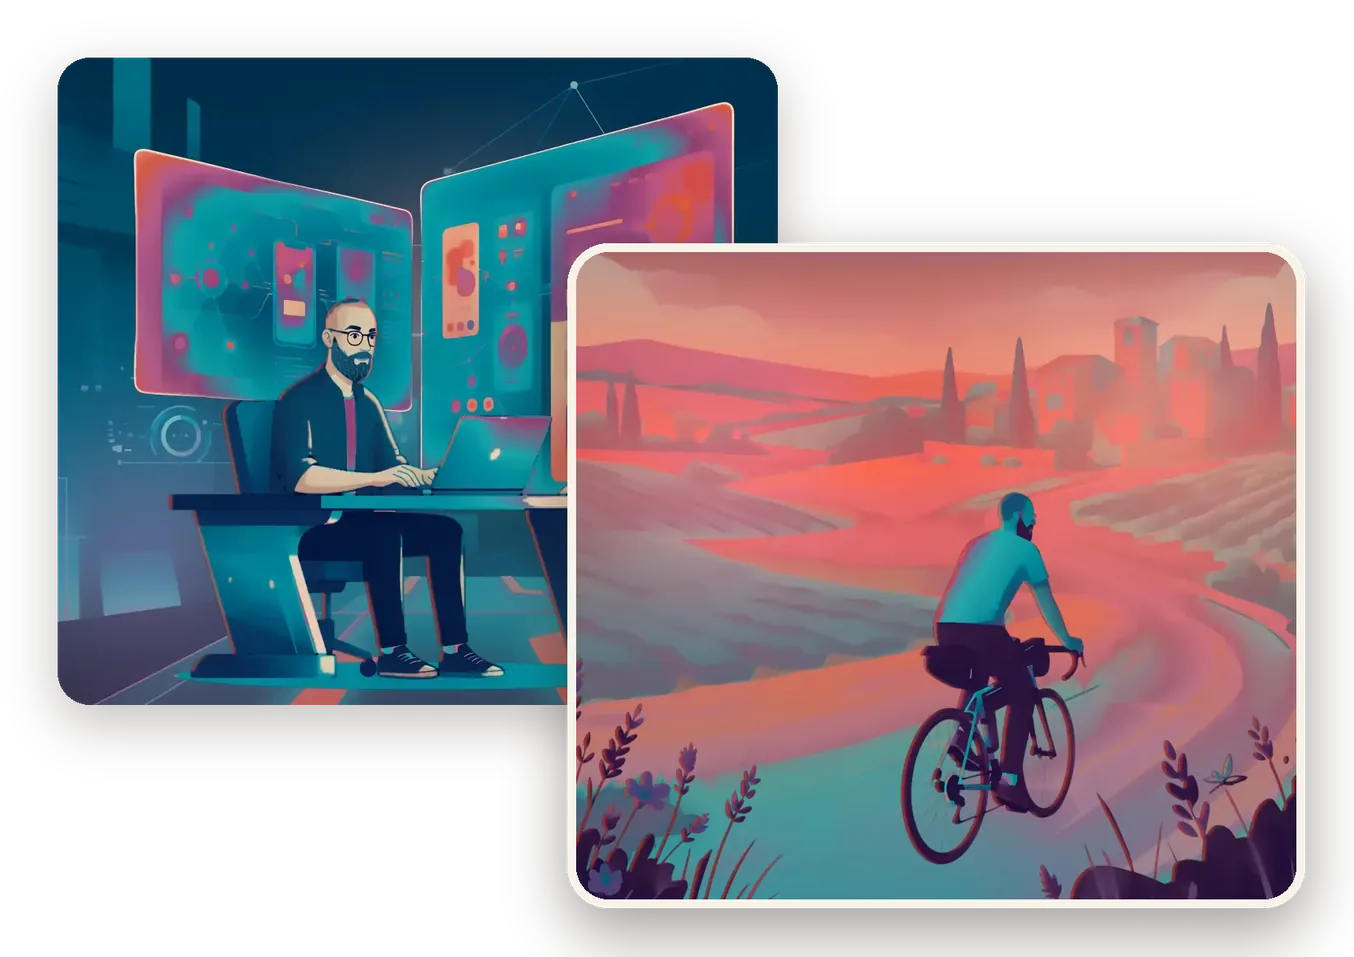
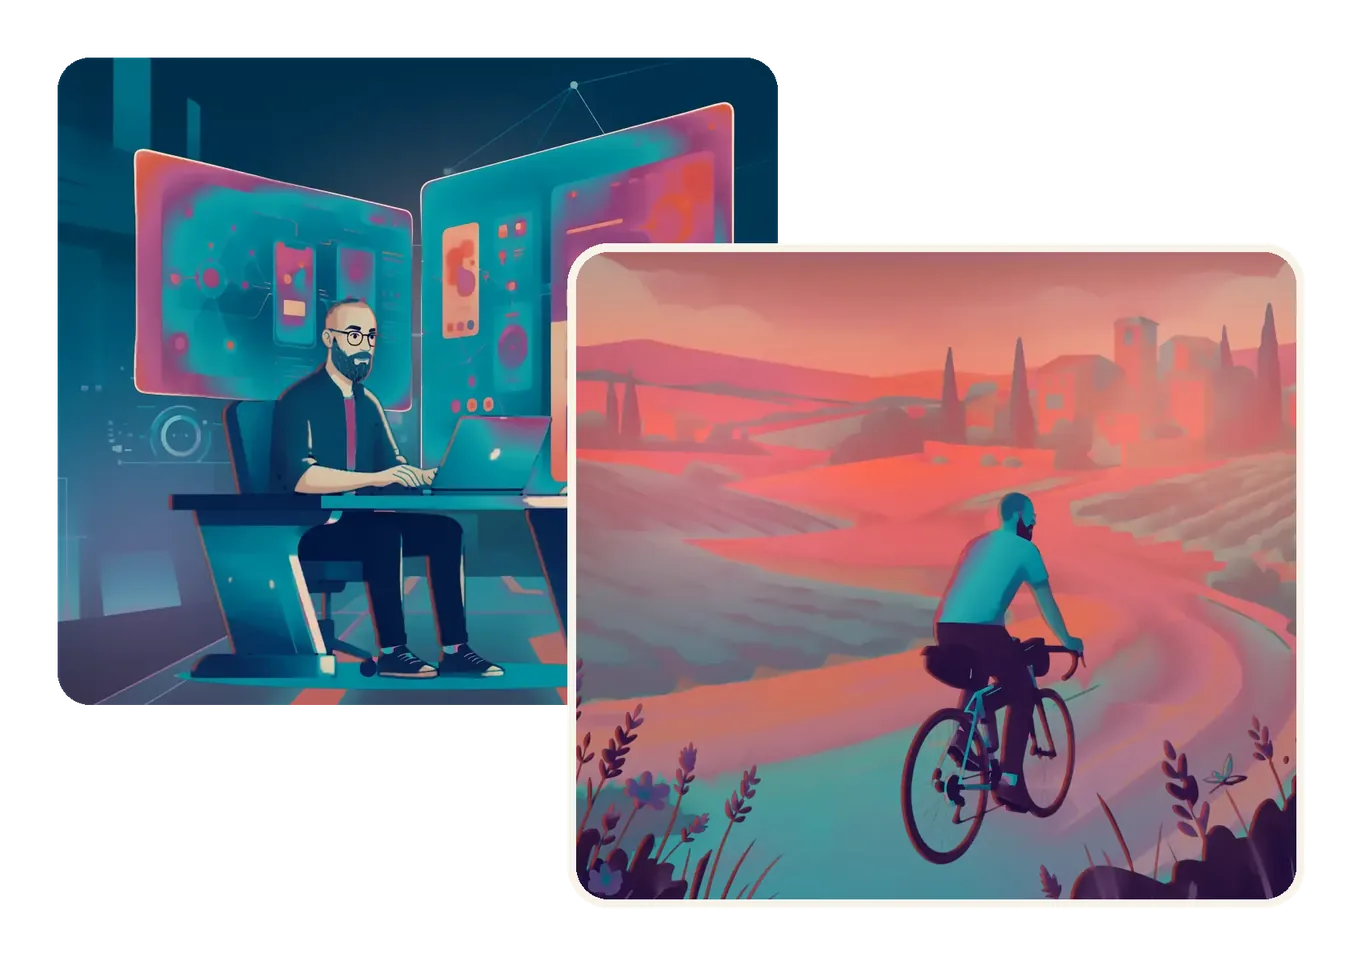
Add files via upload

Changed region(s): [[0.031, 0.1212, 0.9926, 1.0], [0.4032, 0.3333, 0.4343, 0.5455], [0.5583, 0.1212, 0.6204, 0.2727]]

diff --git a/index.html b/index.html
@@ -18,7 +18,7 @@
 <style>html,body{background:#0a243b;margin:0;padding:0;overscroll-behavior-x:none}</style>
 <script src="./boot.js"></script>
 <script src="./support.js"></script>
-<script src="./smart-switch.js?v=4" defer></script>
+<script src="./smart-switch.js?v=5" defer></script>
 </head>
 <body style="background:#123d5e">
 <x-dc>
@@ -335,7 +335,7 @@ setTimeout(function(){ document.documentElement.setAttribute('data-dc-ready','')
   /* Approach: on wide screens the portrait is centred, so its text block fits in the space to the
      left of it; on tall screens (portrait tablets/monitors) the portrait sits between the title and
      the text, so the text gets a normal reading width */
-  @media (min-width: 701px) and (orientation: landscape) {
+  @media (min-width: 701px) and (orientation: landscape) and (min-height: 501px) {   /* not phones on their side */
     html [data-role="cv-entry"][data-approach="true"] [data-role="cv-desc"] { width: clamp(220px, calc((100vw - min(68vh * 1300 / 1168, 1000px)) / 2 - 60px), 480px) !important; }
   }
   @media (min-width: 701px) and (orientation: portrait) {
@@ -376,7 +376,7 @@ setTimeout(function(){ document.documentElement.setAttribute('data-dc-ready','')
         <sc-if value="{{ e.approachOn }}" hint-placeholder-val="{{ false }}">
           <div data-role="cv-approach" style="position:absolute; inset:0; z-index:6; transform:translateX({{ e.introDx }}); transition:transform 820ms cubic-bezier(.3,0,.2,1)">
             <sc-if value="{{ e.approachNear }}" hint-placeholder-val="{{ false }}">
-              <iframe src="./portrait/?v=25" title="My approach: Paul at his desk and on his bike" loading="eager" style="width:100%; height:100%; border:0; display:block; background:transparent"></iframe>
+              <iframe src="./portrait/?v=26" title="My approach: Paul at his desk and on his bike" loading="eager" style="width:100%; height:100%; border:0; display:block; background:transparent"></iframe>
             </sc-if>
           </div>
         </sc-if>
@@ -470,7 +470,7 @@ setTimeout(function(){ document.documentElement.setAttribute('data-dc-ready','')
           <sc-if value="{{ e.smartComp }}" hint-placeholder-val="{{ false }}">
             <div data-role="cv-smart3d" style="position:absolute; left:0; right:0; top:0; bottom:0; z-index:2; transform:translateX({{ e.images.0.dx }}); transition:transform 820ms cubic-bezier(.3,0,.2,1) {{ e.images.0.delay }}ms">
               <sc-if value="{{ e.smart3dNear }}" hint-placeholder-val="{{ false }}">
-                <iframe ref="{{ e.smart3dRef }}" src="./smart.html?embed=1&bg=transparent&v=15" title="Smart Pension and Zurich app screens in 3D" loading="eager" allowtransparency="true" scrolling="no" style="width:100%; height:100%; border:0; display:block; background:transparent"></iframe>
+                <iframe ref="{{ e.smart3dRef }}" src="./smart.html?embed=1&bg=transparent&v=16" title="Smart Pension and Zurich app screens in 3D" loading="eager" allowtransparency="true" scrolling="no" style="width:100%; height:100%; border:0; display:block; background:transparent"></iframe>
               </sc-if>
             </div>
           </sc-if>
@@ -1308,9 +1308,9 @@ class Component extends DCLogic {
         introDx: on ? "0px" : (i < active ? "calc(-100vw - 100%)" : "calc(100vw + 100%)"),
         stillOn: stills && !!STILLS[d.short],
         stillName: (STILLS[d.short] || [""])[0],
-        stillSrc: STILLS[d.short] ? "./assets/mobile/" + STILLS[d.short][0] + ".webp?v=12" : "",
+        stillSrc: STILLS[d.short] ? "./assets/mobile/" + STILLS[d.short][0] + ".webp?v=13" : "",
         // AKQA: the upright capture frames the iPad larger, so it is used sideways too
-        stillLand: STILLS[d.short] ? "./assets/mobile/" + STILLS[d.short][0] + (STILLS[d.short][0] === "akqa" ? "" : "-land") + ".webp?v=12" : "",
+        stillLand: STILLS[d.short] ? "./assets/mobile/" + STILLS[d.short][0] + (STILLS[d.short][0] === "akqa" ? "" : "-land") + ".webp?v=13" : "",
         stillAlt: STILLS[d.short] ? STILLS[d.short][1] : "",
         blobLeftPx: ((this.state.mx || 0) * 26).toFixed(1) + "px",
         blobLeftPy: ((this.state.my || 0) * 16).toFixed(1) + "px",

diff --git a/smart-scene.js b/smart-scene.js
@@ -488,7 +488,7 @@ class SmartScene extends HTMLElement {
     let drag = null;
     this.addEventListener('touchstart', e => {
       const t0 = e.touches[0];
-      if (t0) drag = { x: t0.clientX, y: t0.clientY, tx: 0, ty: 0 };
+      if (t0) drag = { x: t0.clientX, y: t0.clientY, tx: 0, ty: 0, x0: t0.clientX, y0: t0.clientY, t: performance.now() };
     }, { passive: true });
     this.addEventListener('touchmove', e => {
       if (!drag) return;
@@ -497,9 +497,17 @@ class SmartScene extends HTMLElement {
       const ddx = t0.clientX - drag.x, ddy = t0.clientY - drag.y;
       drag = { x: t0.clientX, y: t0.clientY, tx: drag.tx + ddx, ty: drag.ty + ddy };
     }, { passive: true });
+    // Touch screens: this scene covers most of the Smart panel, so its taps and swipes never reach
+    // the homepage. Pass them up: a tap (where on the screen) picks Smart/Zurich, a sideways swipe
+    // flips the theme or changes section (same thresholds as the homepage's own swipe).
     const endTouchDrag = () => {
-      if (drag && Math.abs(drag.tx) > 180 && Math.abs(drag.tx) > Math.abs(drag.ty) * 3) {
-        try { parent.postMessage({ type: 'gu3d-swipe', dir: drag.tx < 0 ? 1 : -1 }, '*'); } catch (err) {}
+      if (drag) {
+        const ax = Math.abs(drag.tx), ay = Math.abs(drag.ty);
+        if (ax < 12 && ay < 12 && performance.now() - drag.t < 600) {
+          try { parent.postMessage({ type: 'smart-tap', nx: drag.x0 / innerWidth, ny: drag.y0 / innerHeight }, '*'); } catch (err) {}
+        } else if (ax > 60 && ax > ay * 1.5) {
+          try { parent.postMessage({ type: 'gu3d-swipe', dir: drag.tx < 0 ? 1 : -1 }, '*'); } catch (err) {}
+        }
       }
       drag = null;
     };

diff --git a/smart.html b/smart.html
@@ -27,7 +27,7 @@ try {
 <link rel="preconnect" href="https://cdn.jsdelivr.net" crossorigin>
 <link rel="modulepreload" href="https://cdn.jsdelivr.net/npm/three@0.184.0/build/three.module.js" crossorigin>
 <link rel="modulepreload" href="https://cdn.jsdelivr.net/npm/three@0.184.0/examples/jsm/environments/RoomEnvironment.js" crossorigin>
-<link rel="preload" as="script" href="smart-scene.js?v=13">
+<link rel="preload" as="script" href="smart-scene.js?v=14">
 <link rel="preload" as="image" fetchpriority="high" href="uploads/smart-dashboard-light.webp?v=5" crossorigin="anonymous">
 <link rel="preload" as="image" fetchpriority="high" href="uploads/smart-balance-light.webp?v=5" crossorigin="anonymous">
 <link rel="preload" as="image" href="uploads/zurich-dashboard-dark.webp?v=5" crossorigin="anonymous">
@@ -53,7 +53,7 @@ window.CVRES = function (p) {
 </head>
 <body>
 <smart-scene background="transparent" parallax="1" float-speed="1"></smart-scene>
-<script src="smart-scene.js?v=13"></script>
+<script src="smart-scene.js?v=14"></script>
 <script>
   const q = new URLSearchParams(location.search);
   const s = document.querySelector('smart-scene');

diff --git a/portrait/style.css b/portrait/style.css
@@ -246,7 +246,6 @@ body::before {
     max-width: 34rem;
     border-radius: var(--radius);
     overflow: hidden;
-    box-shadow: 0 2px 4px rgba(40, 30, 20, .08), 0 18px 40px -12px rgba(40, 30, 20, .28);
   }
   .flat img { display: block; width: 100%; height: auto; }
   .flat--bike { margin-top: 28px; }
@@ -320,7 +319,7 @@ body::before {
     left: calc(var(--x0) + .55 * var(--w));
     top: calc(var(--y0) + .64 * .899 * var(--w));
     z-index: 2;
-    box-shadow: 0 0 0 5px var(--paper), 0 20px 44px -12px rgba(40, 30, 20, .45);
+    box-shadow: 0 0 0 5px var(--paper);   /* paper edge only, no drop shadow */
   }
 }
 

diff --git a/portrait/index.html b/portrait/index.html
@@ -10,7 +10,7 @@
 <!-- inside the homepage timeline: switch to the embedded layout before the first paint, so the
      standalone layout never flashes up on load -->
 <script>try { if (window.parent !== window) document.documentElement.classList.add('is-embedded'); } catch (e) { document.documentElement.classList.add('is-embedded'); }</script>
-<link rel="stylesheet" href="style.css?v=20">
+<link rel="stylesheet" href="style.css?v=21">
 </head>
 <body>
 <main class="portrait" id="portrait" style="--mix:1">

diff --git a/smart-switch.js b/smart-switch.js
@@ -75,7 +75,7 @@
   // …and over the 3D iframe, which reports its cursor in its own coordinates
   window.addEventListener('message', function (e) {
     var d = e.data;
-    if (!d || d.type !== 'smart-ptr' || !on) return;
+    if (!d || (d.type !== 'smart-ptr' && d.type !== 'smart-tap') || !on) return;   // smart-tap: a touch tap inside the 3D scene
     var f = frame();
     if (!f || e.source !== f.contentWindow) return;
     var r = f.getBoundingClientRect();
